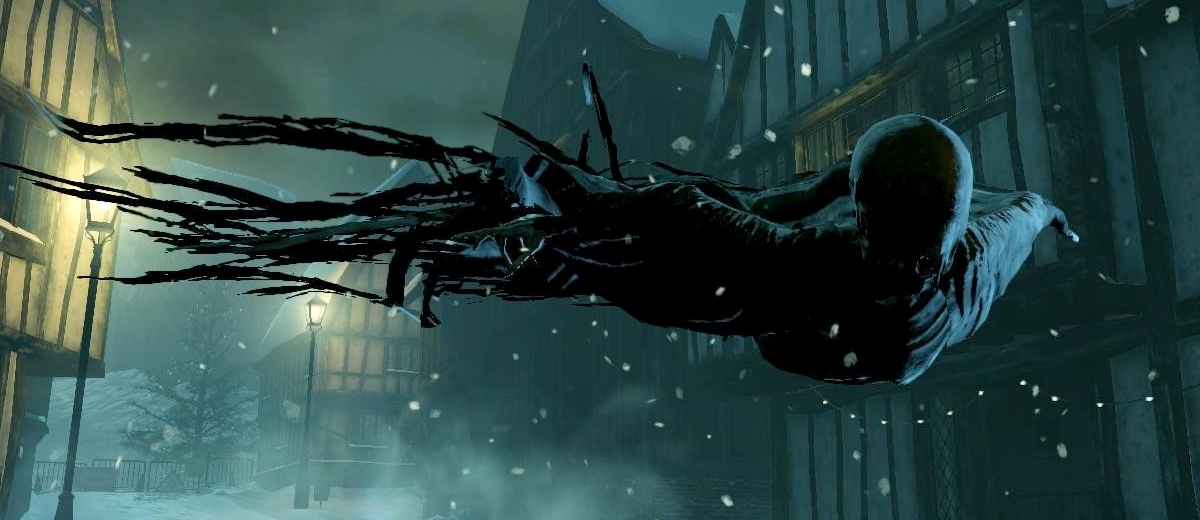
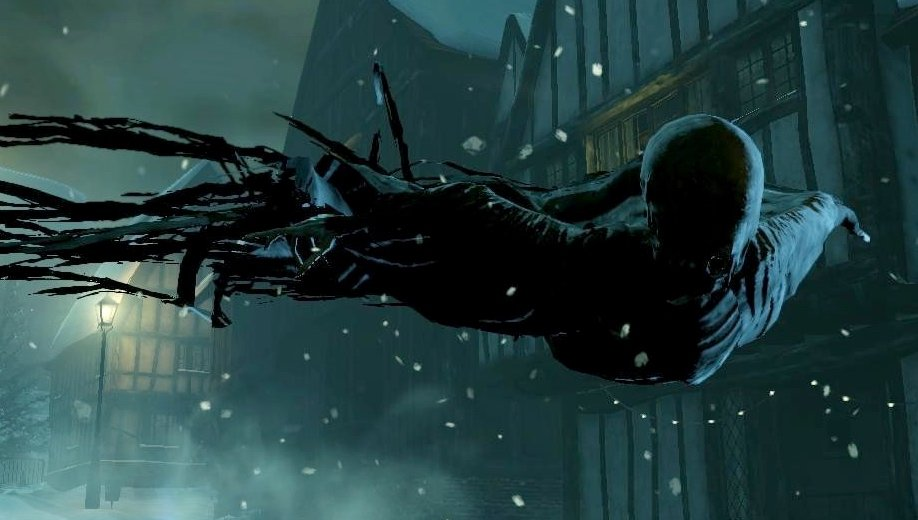
level pictures

diff --git a/public/style.css b/public/style.css
@@ -153,11 +153,11 @@ a {
 }
 
 .preStage.alohomora{
-  background-image: url("images/lumos.jpg");
+  background-image: url("images/closeddoor.jpg");
   background-size: cover;
 }
 .postStage.alohomora{
-  background-image: url("images/lumos.jpg");
+  background-image: url("images/dooropen.jpg");
   background-size: cover;
 }
 
@@ -173,7 +173,7 @@ a {
 
 .preStage.patronus{
   background-image: url("images/dementor.jpg");
-  background-size:contain;
+  background-size:cover;
 
 }
 .postStage.patronus{
